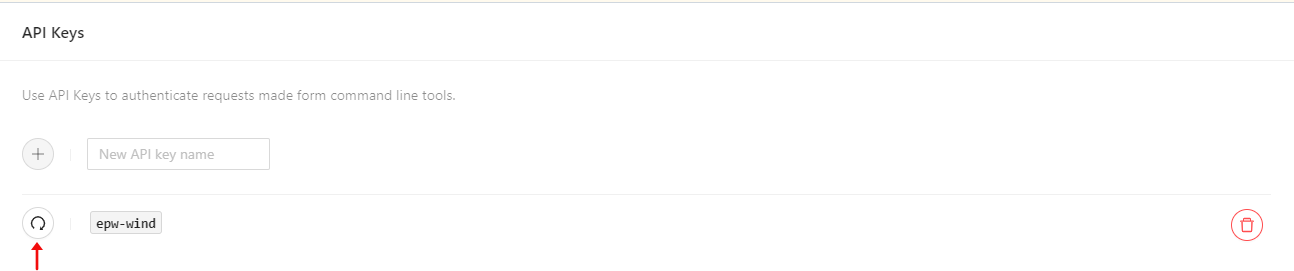
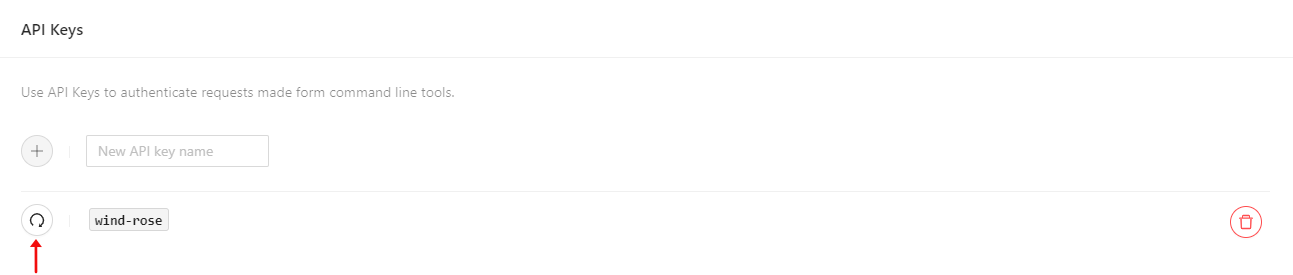
docs(deploy-app): improve deploy-app

diff --git a/apps/deploy-app.md b/apps/deploy-app.md
@@ -1,6 +1,6 @@
 # Deploy an App
 
-In this section, we will see how you can deploy your own app on Pollination Cloud. As an example to demonstrate the process, we will write and deploy an app that draws a wind rose using the EPW data. At the end of this section, you will have deployed an app named **windrose** that appears under the **Apps** tab on your profile.
+In this section, we will see how you can deploy your own app on Pollination Cloud. As an example to demonstrate the process, we will write and deploy an app that draws a wind rose using the EPW data. At the end of this section, you will have deployed an app named **wind-rose** that appears under the **Apps** tab on your profile.
 
 ![](../.gitbook/assets/pollination-apps/app_deployed.png)
 
@@ -27,28 +27,28 @@ Go to the location on your system where you'd like to create the app folder and 
 pollination-apps new
 ```
 
-This will ask for the project name. The project name here will become the name of your app. Also, make sure to not have any blank spaces in your project name. In our case, we will choose the project name to be **windrose**.
+This will ask for the project name. The project name here will become the name of your app. Also, make sure to not have any blank spaces in your project name. In our case, we will choose the project name to be **wind-rose**.
 
 ```
-project_name [Python Boilerplate]: windrose
+project_name [Python Boilerplate]: wind-rose
 ```
 
 Next, it will ask for the project_slug. Enter the same name you entered above or keep it blank which will use the same name you entered above for the project_name. We are keeping it blank.
 
 ```
-project_slug [windrose]:
+project_slug [wind-rose]:
 ```
 
 Next, we will enter project_short_description. This is a short description of your app.
 
 ```
-project_short_description [The best Pollination app... so far!]: Generate a windrse from EPW.
+project_short_description [The best Pollination app... so far!]: Generate a wind rose from EPW.
 ```
 
 Next, comes pollination_owner. This is your username in Pollination. We looked at how to find this owner name in [this](https://docs.pollination.cloud/user-manual/apps/create-job) section.
 
 ```
-pollination_owner []: devang
+pollination_owner []: YOUR_USERNAME
 ```
 
 Next, pollination-apps will ask you whether you'll need the [Pollination-viewer](integrating-the-pollination-viewer.md) in your app. You'll most likely need the Pollination viewer in your app if you are dealing with any 3D geometry. In this case, we're simply creating a 2D interactive chart so we will choose not to have the Pollination viewer.
@@ -78,10 +78,10 @@ Select ci:
 Choose from 1, 2 [1]: 1
 ```
 
-Doing this should give you a folder named windrose in your current working directory with the following file structure;
+Doing this should give you a folder named wind-rose in your current working directory with the following file structure;
 
 ```
-windrose
+wind-rose
 │   README.md
 │
 ├───.github
@@ -109,7 +109,7 @@ These are the libraries we need to run the app. To find the latest version of an
 
 ### Step-3: Installing libraries
 
-Change directory and arrive at the **app** folder created inside the windrose folder at the end of step-1. Once app folder is your current working directory, run the following command. This will install all the dependencies in the requirements.txt file.
+Change directory and arrive at the **app** folder created inside the wind-rose folder at the end of step-1. Once app folder is your current working directory, run the following command. This will install all the dependencies in the requirements.txt file.
 
 ```python
 pip install -r requirements.txt
@@ -143,10 +143,10 @@ st.plotly_chart(figure, use_container_width=True)
 
 ```
 
-Please note that we created a subfolder called **assets** inside the app folder. This subfolder will contain the EPW data file we are using renamed as **sample.epw**. So after creating the assets folder, the structure of the windrose folder will look like the following;
+Please note that we created a subfolder called **assets** inside the app folder. This subfolder will contain the EPW data file we are using renamed as **sample.epw**. So after creating the assets folder, the structure of the wind-rose folder will look like the following;
 
 ```
-windrose
+wind-rose
 │   README.md
 │
 ├───.github
@@ -172,7 +172,7 @@ This should render the following in the browser;
 
 ![](../.gitbook/assets/pollination-apps/wind_rose.png)
 
-If the app runs as expected, enter "ctrl + c" on the command line to stop the app.
+If the app runs as expected, enter `ctrl + c` on the command line to stop the app.
 
 ### Step-5: Running the app in a Docker container
 
@@ -202,10 +202,10 @@ Options:
   --help           Show this message and exit.
 ```
 
-Let's run the command now to run the app in a Docker container.
+Let's run the command now to run the app in a Docker container. The **.** here means that we want the current working directory to be the path.
 
 ```
-pollination-apps run . devang
+pollination-apps run . YOUR_USERNAME
 ```
 
 This will take a while depending on the size of the app and the number of dependencies in the requirements.txt file. If everything works fine you should see the following appear in the command line;
@@ -223,11 +223,11 @@ Now, you can view the app in your browser by going to the following URL;
 localhost:8501
 ```
 
-You should see your app running in the browser. If the app works as expected. Come back to the command line and use the "ctrl + c" command to stop the app.
+You should see your app running in the browser. If the app works as expected. Come back to the command line and use the `ctrl + c` command to stop the app.
 
 ### Step-6: Generating API token
 
-Once we have tested that the app works inside the Docker container. We are ready to deploy it to Pollination Cloud. To deploy the app, we will login to Pollination cloud first and will create an API token. Go to the "Developer Settings" section of the "Settings" page on your profile and create a new API or retrieve an existing API token. Here, we created a new API token with the name of "windrose". We will click on the "refresh" button to get the API token and will copy the API token to the clipboard.
+Once we have tested that the app works inside the Docker container. We are ready to deploy it to Pollination Cloud. To deploy the app, we will login to Pollination cloud first and will create an API token. Go to the **Developer Settings** section of the **Settings** page on your profile and create a new API or retrieve an existing API token. Here, we created a new API token with the name of `wind-rose`. We will click on the `refresh` button to get the API token and will copy the API token to the clipboard.
 
 ![](../.gitbook/assets/pollination-apps/api_token.png)
 
@@ -235,7 +235,7 @@ Once we have tested that the app works inside the Docker container. We are ready
 
 ### Step-7: Deploying the app
 
-To deploy the app we will use the "run" command from the Pollination-apps library.
+To deploy the app we will use the `deploy` command from the Pollination-apps library.
 
 In order to learn the structure of the command above, use the following command;
 
@@ -246,17 +246,17 @@ pollination-apps deploy --help
 Finally, run the command inside the app folder and use the API token created in the step above.
 
 ```
-pollination-apps deploy . --name "windrose" --api-token XXXXXXXXXXXXXXXXXXXXXXXXXXXXXXXXX
+pollination-apps deploy . --name "wind-rose" --api-token XXXXXXXXXXXXXXXXXXXXXXXXXXXXXXXXX
 ```
 
 Once you deploy the app, you should see the following message appear on the command line;
 
 ```
-Congrats! The "windrose" app is successfully scheduled for deployment.
-It can take up to 10 minutes before the new version of the app is deployed to Pollination. You can check the app at this URL: https://app.pollination.cloud/your user name/applications/windrose
+Congrats! The "wind-rose" app is successfully scheduled for deployment.
+It can take up to 10 minutes before the new version of the app is deployed to Pollination. You can check the app at this URL: https://app.pollination.cloud/YOUR_USERNAME/applications/wind-rose
 ```
 
-If you reached here, congratulations! You have successfully deployed the app to Pollination Cloud. Go to the "windrose" app under the "Apps" tab on your profile and check the live app after 10 minutes of deployment. You should see the "windrose" app live on Pollination cloud.
+If you reached here, congratulations! You have successfully deployed the app to Pollination Cloud. Go to the **wind-rose** app under the **Apps** tab on your profile and check the live app after 10 minutes of deployment. You should see the wind-rose app live on Pollination cloud.
 
 ![](../.gitbook/assets/pollination-apps/live_app.png)
 
